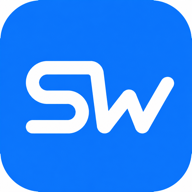
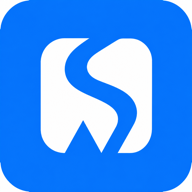
refine SubWeb brand mark

diff --git a/design-qa.md b/design-qa.md
@@ -1,6 +1,6 @@
 **Artifacts**
 
-- Source visual truth: `/Users/hans/.codex/generated_images/01a037d0-6a17-7230-a56c-c923f2c5dffb/exec-8ba25ec3-e0d4-41cd-b05f-80e5ba4a05e1.png`
+- Source visual truth: `/Users/hans/.codex/generated_images/01a037d0-6a17-7230-a56c-c923f2c5dffb/exec-6cdd7238-e8bf-4884-9ae7-b411abe4c66b.png`
 - Implementation screenshot: `/private/tmp/subweb-implementation.png`
 - Combined comparison: `/private/tmp/subweb-logo-comparison.png`
 - Viewport: 1233 x 941 CSS px, DPR 1.
@@ -13,7 +13,7 @@
 - Fonts and typography: the rendered `SubWeb` wordmark uses the product's existing bold sans-serif rather than rasterizing the concept wordmark; weight, scale and hierarchy remain visually consistent at navigation size.
 - Spacing and layout rhythm: the 34px icon, 10px brand gap and rounded-square footprint match the selected compact lockup and existing header proportions.
 - Colors and visual tokens: the vivid blue mark stays within the existing `#2684ff` product palette, with black brand text on the white navigation surface.
-- Image quality and asset fidelity: the selected fused rounded `sw` mark is implemented as a generated PNG asset rather than a handcrafted SVG or CSS drawing. A 192px source is used for the 34px navigation slot; dedicated 64px and 512px exports cover favicon and PWA usage.
+- Image quality and asset fidelity: the selected abstract negative-space mark is implemented as a generated PNG asset rather than a handcrafted SVG or CSS drawing. A 192px source is used for the 34px navigation slot; dedicated 64px and 512px exports cover favicon and PWA usage.
 - Copy and content: the selected `SubWeb` brand name is unchanged; no unrelated page copy was introduced.
 
 **Interaction Evidence**
@@ -25,9 +25,8 @@
 
 **Comparison History**
 
-- Initial export accidentally followed the second ideation direction and was rejected before implementation.
-- The asset was regenerated from the exact third displayed ideation result, implemented, captured, and compared side by side.
-- Post-fix comparison shows the selected rounded fused `sw` structure, blue rounded-square container and compact wordmark lockup without remaining P0/P1/P2 drift.
+- The rounded fused `sw` direction was implemented first, then replaced after the user explicitly selected the abstract negative-space export.
+- Post-change browser capture confirms the abstract mark remains legible in the 34px header slot without changing the existing lockup or navigation spacing.
 
 **Follow-up Polish**
 
